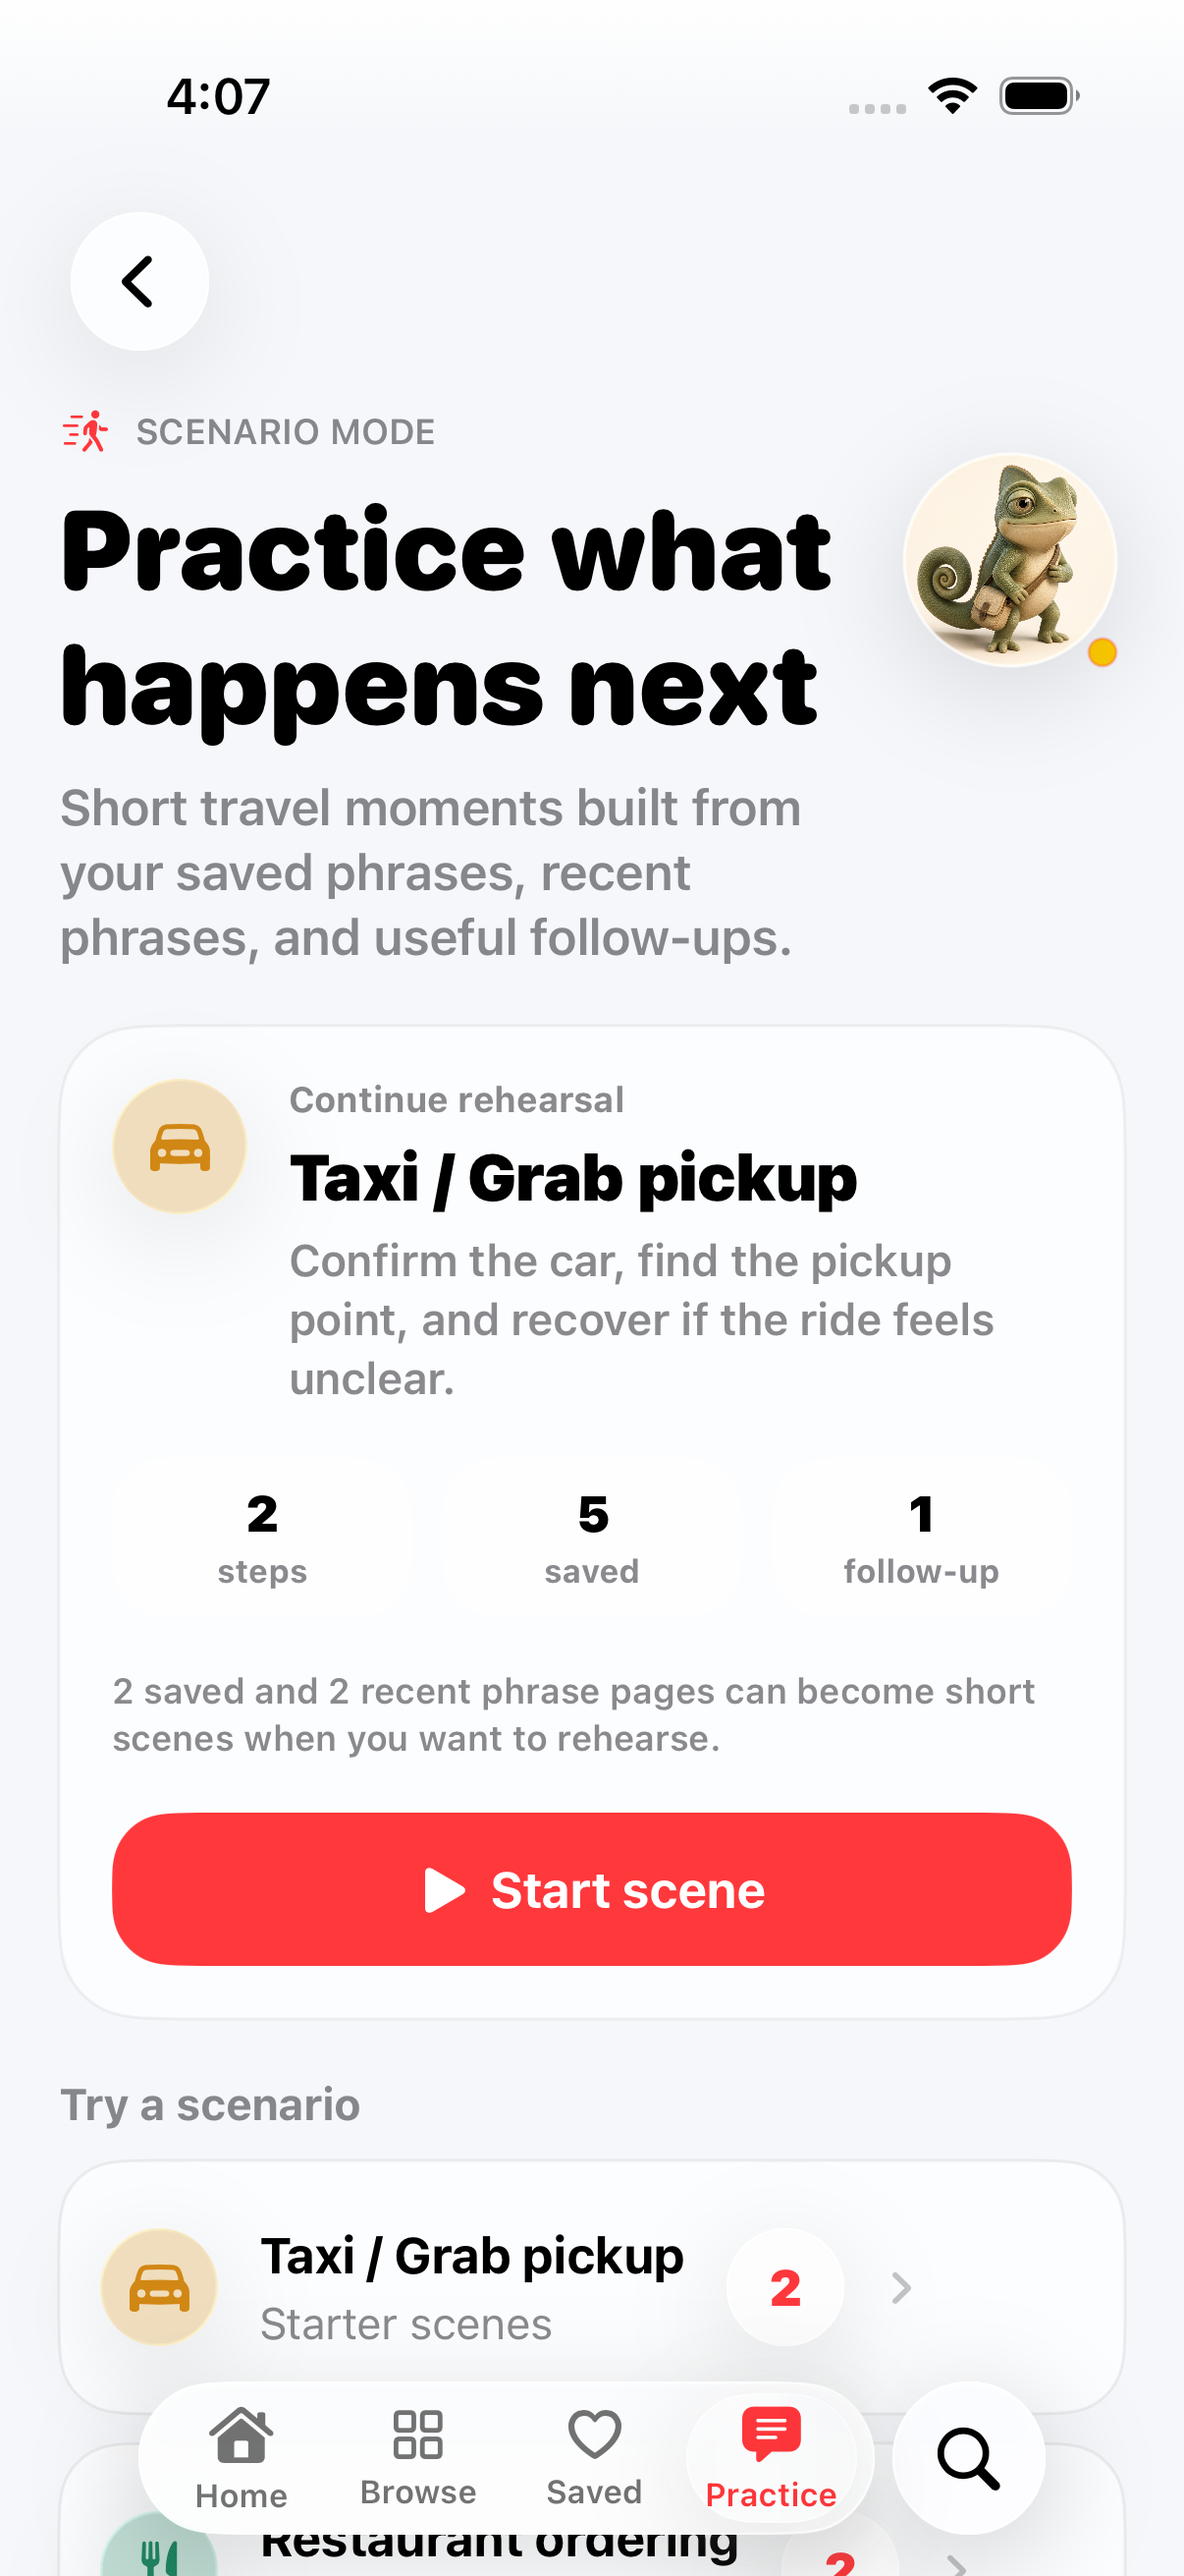
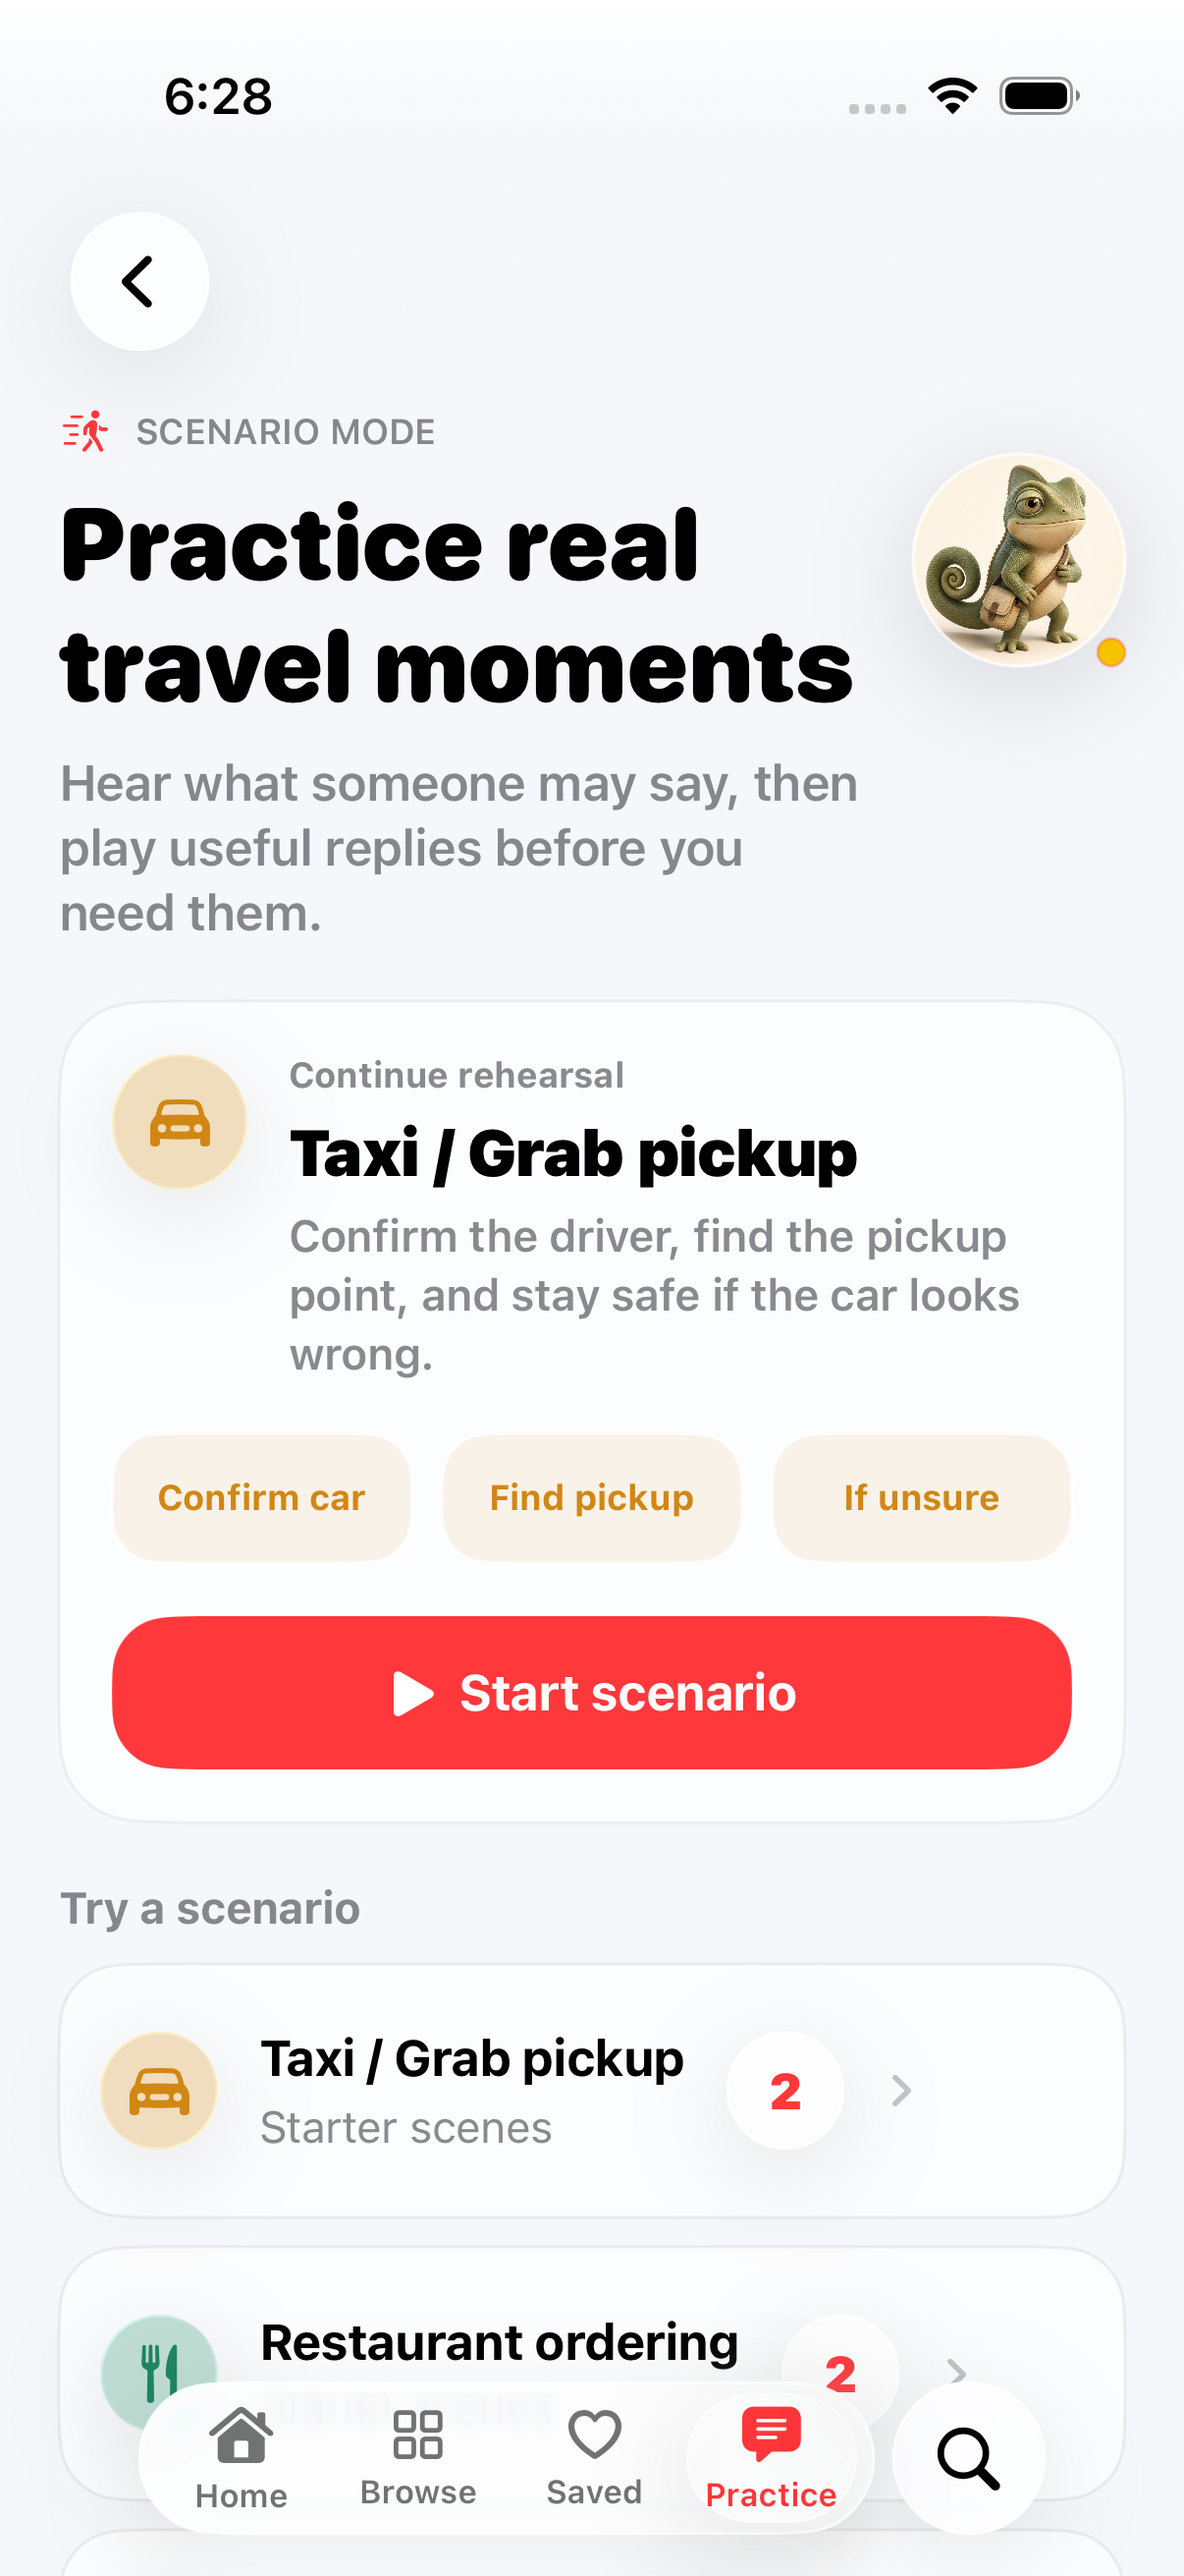
Improve scenario practice hero beats

diff --git a/native-ios/App/Views/PracticeView.swift b/native-ios/App/Views/PracticeView.swift
@@ -59,9 +59,6 @@ struct PracticeView: View {
                             activeScenarioSession: activeScenarioSession,
                             scenarioCompletion: scenarioCompletion,
                             scenarioState: scenarioState,
-                            explicitPracticeCount: intentStore.practicePageIDs.count,
-                            savedPageCount: intentStore.savedPageIDs.count,
-                            recentPageCount: intentStore.recentPageIDs.count,
                             isInPracticePool: isScenarioPageInPractice,
                             onOpenPhrasePage: openScenarioPhrasePage,
                             onTogglePracticePage: toggleScenarioPracticePage,
@@ -749,9 +746,6 @@ private struct PracticeCurrentScenarioSurface: View {
     let activeScenarioSession: PracticeScenarioSession?
     let scenarioCompletion: PracticeScenarioCompletionSummary?
     let scenarioState: PracticeScenarioLoadState
-    let explicitPracticeCount: Int
-    let savedPageCount: Int
-    let recentPageCount: Int
     let isInPracticePool: (String) -> Bool
     let onOpenPhrasePage: (String) -> Void
     let onTogglePracticePage: (String) -> Void
@@ -782,9 +776,6 @@ private struct PracticeCurrentScenarioSurface: View {
         } else {
             PracticeScenarioHubSurface(
                 state: scenarioState,
-                explicitPracticeCount: explicitPracticeCount,
-                savedPageCount: savedPageCount,
-                recentPageCount: recentPageCount,
                 onStart: onStart,
                 onBrowseTapped: onBrowseTapped,
                 onRetry: onRetry
@@ -795,9 +786,6 @@ private struct PracticeCurrentScenarioSurface: View {
 
 private struct PracticeScenarioHubSurface: View {
     let state: PracticeScenarioLoadState
-    let explicitPracticeCount: Int
-    let savedPageCount: Int
-    let recentPageCount: Int
     let onStart: (PracticeScenario) -> Void
     let onBrowseTapped: () -> Void
     let onRetry: () -> Void
@@ -815,9 +803,6 @@ private struct PracticeScenarioHubSurface: View {
                 if let primary = snapshot.primaryScenario {
                     PracticeScenarioPrimaryCard(
                         scenario: primary,
-                        explicitPracticeCount: explicitPracticeCount,
-                        savedPageCount: savedPageCount,
-                        recentPageCount: recentPageCount,
                         onStart: { onStart(primary) }
                     )
                 }
@@ -848,13 +833,13 @@ private struct PracticeScenarioHeader: View {
                         .foregroundStyle(.secondary)
                 }
 
-                Text("Practice what happens next")
+                Text("Practice real travel moments")
                     .font(.system(size: 38, weight: .black, design: .rounded))
                     .foregroundStyle(.primary)
                     .lineLimit(2)
                     .minimumScaleFactor(0.68)
 
-                Text("Short travel moments built from your saved phrases, recent phrases, and useful follow-ups.")
+                Text("Hear what someone may say, then play useful replies before you need them.")
                     .font(.body.weight(.semibold))
                     .foregroundStyle(.secondary)
                     .lineLimit(4)
@@ -871,9 +856,6 @@ private struct PracticeScenarioHeader: View {
 
 private struct PracticeScenarioPrimaryCard: View {
     let scenario: PracticeScenario
-    let explicitPracticeCount: Int
-    let savedPageCount: Int
-    let recentPageCount: Int
     let onStart: () -> Void
 
     var body: some View {
@@ -899,18 +881,10 @@ private struct PracticeScenarioPrimaryCard: View {
                 .layoutPriority(1)
             }
 
-            HStack(spacing: 10) {
-                PracticeMetricPill(title: "steps", value: "\(scenario.steps.count)")
-                PracticeMetricPill(title: "saved", value: "\(max(explicitPracticeCount, savedPageCount))")
-                PracticeMetricPill(title: "follow-up", value: "\(max(scenario.steps.count - 1, 1))")
-            }
-
-            Text("\(savedPageCount) saved and \(recentPageCount) recent phrase page\(savedPageCount + recentPageCount == 1 ? "" : "s") can become short scenes when you want to rehearse.")
-                .font(.caption.weight(.semibold))
-                .foregroundStyle(.secondary)
+            PracticeScenarioBeatRow(beats: scenario.id.flowBeats, tint: scenario.id.tint)
 
             Button(action: onStart) {
-                Label("Start scene", systemImage: "play.fill")
+                Label("Start scenario", systemImage: "play.fill")
                     .font(.headline.weight(.bold))
                     .frame(maxWidth: .infinity)
                     .frame(height: 52)
@@ -926,6 +900,46 @@ private struct PracticeScenarioPrimaryCard: View {
     }
 }
 
+private struct PracticeScenarioBeatRow: View {
+    let beats: [String]
+    let tint: AccentTint
+
+    var body: some View {
+        HStack(spacing: 10) {
+            ForEach(beats, id: \.self) { beat in
+                PracticeScenarioBeatChip(title: beat, tint: tint)
+            }
+        }
+        .accessibilityElement(children: .contain)
+        .accessibilityIdentifier("Practice.Scenario.Beats")
+    }
+}
+
+private struct PracticeScenarioBeatChip: View {
+    let title: String
+    let tint: AccentTint
+
+    var body: some View {
+        Text(title)
+            .font(.caption.weight(.bold))
+            .foregroundStyle(tint.color)
+            .lineLimit(1)
+            .minimumScaleFactor(0.72)
+            .frame(maxWidth: .infinity)
+            .frame(height: 44)
+            .padding(.horizontal, 8)
+            .background(
+                tint.color.opacity(0.09),
+                in: RoundedRectangle(cornerRadius: 16, style: .continuous)
+            )
+            .overlay(
+                RoundedRectangle(cornerRadius: 16, style: .continuous)
+                    .stroke(.white.opacity(0.72), lineWidth: 1)
+            )
+            .accessibilityIdentifier("Practice.Scenario.Beat.\(title)")
+    }
+}
+
 private struct PracticeScenarioModeList: View {
     let scenarios: [PracticeScenario]
     let onStart: (PracticeScenario) -> Void
@@ -938,17 +952,14 @@ private struct PracticeScenarioModeList: View {
 
             VStack(spacing: 10) {
                 ForEach(scenarios) { scenario in
-                    PracticeScenarioModeRow(scenario: scenario)
-                        .onTapGesture {
-                            onStart(scenario)
-                        }
-                        .accessibilityElement(children: .ignore)
-                        .accessibilityAddTraits(.isButton)
-                        .accessibilityLabel(scenario.id.title)
-                        .accessibilityIdentifier("Practice.Scenario.\(scenario.id.rawValue)")
-                        .accessibilityAction {
-                            onStart(scenario)
-                        }
+                    Button {
+                        onStart(scenario)
+                    } label: {
+                        PracticeScenarioModeRow(scenario: scenario)
+                    }
+                    .buttonStyle(.plain)
+                    .accessibilityLabel(scenario.id.title)
+                    .accessibilityIdentifier("Practice.Scenario.\(scenario.id.rawValue)")
                 }
             }
         }

diff --git a/native-ios/Tests/PracticeScenarioModeTests.swift b/native-ios/Tests/PracticeScenarioModeTests.swift
@@ -20,6 +20,7 @@ final class PracticeScenarioModeTests: XCTestCase {
         for scenario in snapshot.scenarios {
             XCTAssertFalse(scenario.sceneTitle.isEmpty)
             XCTAssertFalse(scenario.sceneSetup.isEmpty)
+            XCTAssertEqual(scenario.id.flowBeats.count, 3)
 
             for step in scenario.steps {
                 XCTAssertFalse(step.scene.isEmpty)
@@ -81,12 +82,16 @@ final class PracticeScenarioModeTests: XCTestCase {
         )
 
         let taxi = try XCTUnwrap(snapshot.scenarios.first { $0.id == .taxiGrabPickup })
+        XCTAssertEqual(taxi.sceneSetup, "Confirm the driver, find the pickup point, and stay safe if the car looks wrong.")
+        XCTAssertEqual(taxi.id.flowBeats, ["Confirm car", "Find pickup", "If unsure"])
         let taxiFirstStep = try XCTUnwrap(taxi.steps.first)
         XCTAssertEqual(taxiFirstStep.localPhrase.scenarioVietnamese, "Bạn đặt xe phải không?")
         XCTAssertEqual(taxiFirstStep.bestResponse?.scenarioVietnamese, "Đúng rồi.")
         XCTAssertEqual(taxiFirstStep.bestResponse?.scenarioEnglish, "Yes, that’s right.")
 
         let restaurant = try XCTUnwrap(snapshot.scenarios.first { $0.id == .restaurantOrderingPayment })
+        XCTAssertEqual(restaurant.sceneSetup, "Ask for the menu, order one thing, and pay without a long exchange.")
+        XCTAssertEqual(restaurant.id.flowBeats, ["Ask menu", "Order one", "Pay"])
         let restaurantFirstStep = try XCTUnwrap(restaurant.steps.first)
         XCTAssertEqual(restaurantFirstStep.localPhrase.scenarioVietnamese, "Bạn muốn gọi món gì?")
         XCTAssertEqual(restaurantFirstStep.bestResponse?.scenarioVietnamese, "Cho tôi một phần này.")
@@ -95,6 +100,8 @@ final class PracticeScenarioModeTests: XCTestCase {
         })
 
         let hotel = try XCTUnwrap(snapshot.scenarios.first { $0.id == .hotelCheckInHelp })
+        XCTAssertEqual(hotel.sceneSetup, "Confirm your booking, show your passport, and handle room details.")
+        XCTAssertEqual(hotel.id.flowBeats, ["Booking", "Passport", "Room details"])
         let hotelFirstStep = try XCTUnwrap(hotel.steps.first)
         XCTAssertEqual(hotelFirstStep.localPhrase.scenarioVietnamese, "Bạn có đặt phòng chưa ạ?")
         XCTAssertEqual(hotelFirstStep.bestResponse?.scenarioVietnamese, "Tôi có đặt phòng.")

diff --git a/native-ios/UITests/PracticeUITests.swift b/native-ios/UITests/PracticeUITests.swift
@@ -13,8 +13,15 @@ final class PracticeUITests: XCTestCase {
 
         XCTAssertTrue(app.descendants(matching: .any)["PracticeView"].waitForExistence(timeout: 8))
         XCTAssertTrue(app.staticTexts["SCENARIO MODE"].waitForExistence(timeout: 4))
+        XCTAssertTrue(app.staticTexts["Practice real travel moments"].exists)
+        XCTAssertTrue(app.staticTexts["Hear what someone may say, then play useful replies before you need them."].exists)
 
-        let startButton = app.buttons["Start scene"].firstMatch
+        XCTAssertTrue(app.staticTexts["Confirm car"].waitForExistence(timeout: 4))
+        XCTAssertTrue(app.staticTexts["Find pickup"].exists)
+        XCTAssertTrue(app.staticTexts["If unsure"].exists)
+        XCTAssertFalse(app.staticTexts["follow-up"].exists)
+
+        let startButton = app.buttons["Start scenario"].firstMatch
         XCTAssertTrue(startButton.waitForExistence(timeout: 4))
         startButton.tap()
 
@@ -101,20 +108,21 @@ final class PracticeUITests: XCTestCase {
     }
 
     private func startPrimaryScenario(in app: XCUIApplication) {
-        tapButton("Start scene", in: app)
+        tapButton("Start scenario", in: app)
     }
 
     private func openScenario(identifier: String, title: String, in app: XCUIApplication) {
         XCTAssertTrue(app.staticTexts["SCENARIO MODE"].waitForExistence(timeout: 4))
-        app.swipeUp()
+        let dragStart = app.coordinate(withNormalizedOffset: CGVector(dx: 0.5, dy: 0.82))
+        let dragEnd = app.coordinate(withNormalizedOffset: CGVector(dx: 0.5, dy: 0.56))
+        dragStart.press(forDuration: 0.01, thenDragTo: dragEnd)
 
         let scenarioButton = app.buttons[identifier].firstMatch
         XCTAssertTrue(scenarioButton.waitForExistence(timeout: 4), "\(title) scenario did not appear.")
-        scenarioButton.coordinate(withNormalizedOffset: CGVector(dx: 0.5, dy: 0.82)).tap()
+        scenarioButton.coordinate(withNormalizedOffset: CGVector(dx: 0.5, dy: 0.5)).tap()
 
-        XCTAssertTrue(app.staticTexts[title].waitForExistence(timeout: 4))
         if !app.staticTexts["Moment 1 of 2"].waitForExistence(timeout: 2) {
-            app.swipeUp()
+            scenarioButton.tap()
         }
         XCTAssertTrue(app.staticTexts["Moment 1 of 2"].waitForExistence(timeout: 4))
     }

diff --git a/native-ios/App/Models/PracticeScenarioBuilder.swift b/native-ios/App/Models/PracticeScenarioBuilder.swift
@@ -482,7 +482,7 @@ private let scenarioTemplates: [PracticeScenarioTemplate] = [
     PracticeScenarioTemplate(
         id: .taxiGrabPickup,
         sceneTitle: "Taxi / Grab pickup",
-        sceneSetup: "Confirm the car, find the pickup point, and recover if the ride feels unclear.",
+        sceneSetup: "Confirm the driver, find the pickup point, and stay safe if the car looks wrong.",
         steps: [
             PracticeScenarioStepTemplate(
                 id: "taxi-pickup-confirm",
@@ -563,7 +563,7 @@ private let scenarioTemplates: [PracticeScenarioTemplate] = [
     PracticeScenarioTemplate(
         id: .restaurantOrderingPayment,
         sceneTitle: "Restaurant ordering",
-        sceneSetup: "Order clearly, ask for the bill, and keep the exchange moving.",
+        sceneSetup: "Ask for the menu, order one thing, and pay without a long exchange.",
         steps: [
             PracticeScenarioStepTemplate(
                 id: "restaurant-order",
@@ -644,7 +644,7 @@ private let scenarioTemplates: [PracticeScenarioTemplate] = [
     PracticeScenarioTemplate(
         id: .hotelCheckInHelp,
         sceneTitle: "Hotel check-in",
-        sceneSetup: "Check in smoothly, show the booking, and ask for help if something is not working.",
+        sceneSetup: "Confirm your booking, show your passport, and handle room details.",
         steps: [
             PracticeScenarioStepTemplate(
                 id: "hotel-check-in",

diff --git a/native-ios/App/Models/PracticeScenarioModels.swift b/native-ios/App/Models/PracticeScenarioModels.swift
@@ -61,6 +61,17 @@ enum PracticeScenarioID: String, CaseIterable, Codable, Equatable, Identifiable 
             return ["hotel-accommodation", "problems-help"]
         }
     }
+
+    var flowBeats: [String] {
+        switch self {
+        case .taxiGrabPickup:
+            return ["Confirm car", "Find pickup", "If unsure"]
+        case .restaurantOrderingPayment:
+            return ["Ask menu", "Order one", "Pay"]
+        case .hotelCheckInHelp:
+            return ["Booking", "Passport", "Room details"]
+        }
+    }
 }
 
 enum PracticeScenarioQueueSource: String, CaseIterable, Codable, Equatable, Hashable {
